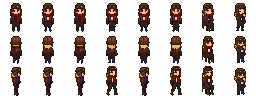
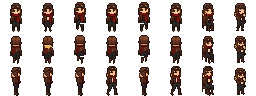
NPC 정면·뒷면 걷기 프레임 통일
원본 시트에 걷기 프레임이 없어 서 있는 그림으로 미끄러지거나(시민 남·광부 남 등),
3/4로 돌아선 그림·좌우 반전 그림이 섞여 걸을 때 앞뒤를 번갈아 보는 문제가 있었다.
정면·뒷면 걷기 4칸을 대기 그림에서 다리를 번갈아 드는 자세(몸통 1px 들썩)로 다시 만든다.
옆모습 걷기는 원본 유지.

Claude-Session: https://claude.ai/code/session_01GLddWFGhu19UdYDuzdKUFY

diff --git a/tools/import_chars.py b/tools/import_chars.py
@@ -202,6 +202,41 @@ def facing(im):
     return float(np.where(skin)[1].mean() - (hx.min() + hx.max()) / 2)
 
 
+def step_pose(frame, side, lift=2):
+    """대기 그림에서 걸음 자세 만들기: 몸통(엉덩이 위)은 1px 위로, 한쪽 다리(아래 25%)는 lift px 들기.
+    side: -1 = 왼다리, +1 = 오른다리. 방향이 바뀌지 않아 앞뒤가 섞이지 않는다."""
+    a = np.asarray(frame)
+    op = a[..., 3] > 0
+    if op.sum() < 20:
+        return frame
+    ys, xs = np.where(op)
+    top, bot = ys.min(), ys.max()
+    hip = bot - max(3, int((bot - top) * 0.25))
+    cx = int(round(xs[ys > hip].mean())) if (ys > hip).any() else a.shape[1] // 2
+    out = Image.new('RGBA', frame.size, (0, 0, 0, 0))
+    body = Image.fromarray(a.copy()); body.putalpha(Image.fromarray(np.where(np.arange(a.shape[0])[:, None] < hip, a[..., 3], 0).astype(np.uint8)))
+    out.alpha_composite(body, (0, -1 if top > 0 else 0))
+    for leg_side in (-1, 1):
+        m = np.zeros(a.shape[:2], bool)
+        m[hip:, :cx] = leg_side < 0
+        m[hip:, cx:] = leg_side > 0
+        leg = Image.fromarray(np.dstack([a[..., :3], np.where(m, a[..., 3], 0)]).astype(np.uint8))
+        out.alpha_composite(leg, (0, -lift if leg_side == side else 0))
+    return out
+
+
+def synth_walks(sheet):
+    """정면(0행)·뒷면(1행)의 걷기 4칸(2~5열)을 대기 그림(0열)으로 다시 만든다: 왼발·대기·오른발·대기."""
+    for r in (0, 1):
+        base = sheet.crop((0, r * FRAME, FRAME, (r + 1) * FRAME))
+        poses = [step_pose(base, -1), base, step_pose(base, +1), base]
+        for i, im in enumerate(poses):
+            c = 2 + i
+            sheet.paste((0, 0, 0, 0), (c * FRAME, r * FRAME, (c + 1) * FRAME, (r + 1) * FRAME))
+            sheet.alpha_composite(im, (c * FRAME, r * FRAME))
+    return sheet
+
+
 def build(mapping_path):
     """매핑의 각 항목: work(작업폴더), down/up/side (8칸: 대기2·걷기4·앉기·동작).
     dark: 어두운 디테일 우선 비율(기본 0.22). 그을음·어두운 옷이 많아 뭉개지면 올린다.
@@ -236,6 +271,8 @@ def build(mapping_path):
                 x = c * FRAME + (FRAME - sp.width) // 2
                 y = r * FRAME + FRAME - sp.height
                 sheet.alpha_composite(sp, (max(c * FRAME, x), y))
+        if m.get('synth_walk', True):
+            sheet = synth_walks(sheet)
         os.makedirs('assets/chars', exist_ok=True)
         sheet.save(f'assets/chars/{cid}.png')
         sheet.resize((sheet.width * 4, sheet.height * 4), Image.NEAREST).save(f'{work}/{cid}_x4.png')

diff --git a/assets/README.md b/assets/README.md
@@ -92,6 +92,8 @@ python3 tools/import_chars.py extract 원본.webp 작업폴더 0:990:6 1010:2000
 python3 tools/import_chars.py build tools/char_map.json
 ```
 
+정면·뒷면 걷기 4칸은 원본 걷기 그림 대신 대기 그림에서 다리를 번갈아 드는 자세로 다시 만듭니다 (원본에 걷기 프레임이 없거나 3/4로 돌아선 그림이 섞이면 미끄러지거나 앞뒤를 번갈아 보는 문제가 있었음). 원본을 쓰려면 매핑에 `"synth_walk": false`.
+
 축소할 때 블록마다 가장 많은 색을 고르되 눈·입 같은 어두운 디테일은 우선 살리고, 팔레트를 28색으로 줄인 뒤
 실루엣 가장자리를 어둡게 해 외곽선을 만듭니다. 생성 이미지 특성상 얼굴은 손으로 1~2px 다듬으면 훨씬 좋아집니다.
 
